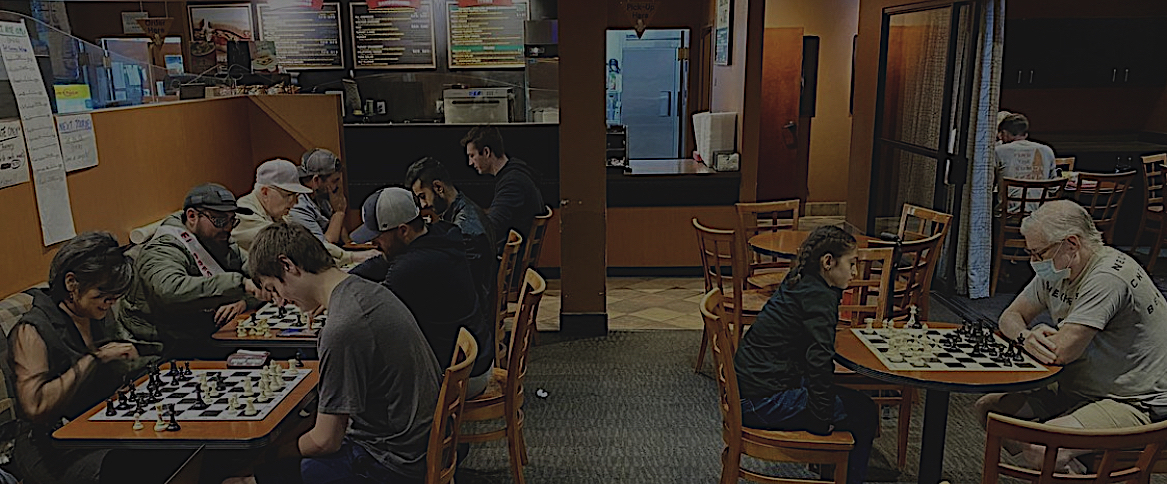
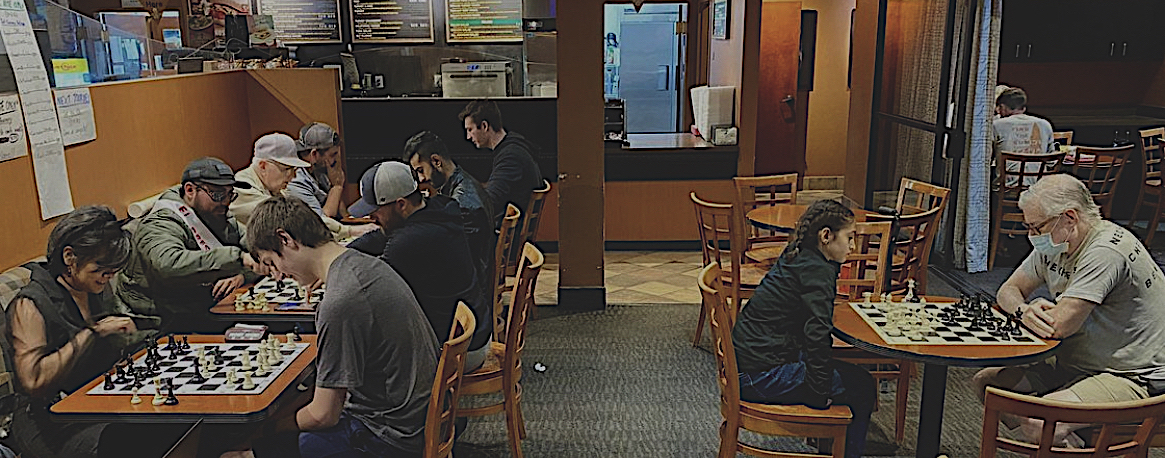
Resizing website images and adding carousel component to homepage.

diff --git a/src/screens/HomeScreen.js b/src/screens/HomeScreen.js
@@ -1,14 +1,32 @@
-import { Col, Container, Image, Row, Button, Card } from "react-bootstrap";
+
+import { Col, Container, Image, Row, Button, Card,Carousel } from "react-bootstrap";
+import Gallery5 from "../LUCA_Images/Gallery5.jpg";
 import Gallery3 from "../LUCA_Images/Gallery3.jpg";
+import Gallery2 from "../LUCA_Images/Gallery2.jpg";
+import Gallery1 from "../LUCA_Images/Gallery1.jpg";
 import halloween from "../LUCA_Images/halloween.jpg"; 
 import singular from "../LUCA_Images/singular.png";
 
-
 export const HomeScreen = () => {
+
   return (
-    <Container className="no-padding">
+    <Container className="no-padding" >
       <Row >
-        <Image src={Gallery3} />
+        <Carousel>
+          <Carousel.Item >
+          <Image className="pic" src={Gallery3} />
+          </Carousel.Item>
+          <Carousel.Item>
+          <Image className="pic" src={Gallery2} />
+          </Carousel.Item>
+          <Carousel.Item>
+          <Image className="pic" src={Gallery1} />
+          </Carousel.Item>
+          <Carousel.Item>
+          <Image className="pic" src={Gallery5} />
+          </Carousel.Item>
+        </Carousel>
+        
       </Row>
       <Row className="white spacer" />
       <Row className="black co">

diff --git a/src/css/style.css b/src/css/style.css
@@ -18,7 +18,7 @@
 
 /** Fonts */
 .fonts-style {
-    color: white;
+    color: rgb(255, 255, 255);
     font-family: 'Source Code Pro', monospace;
    
 }
@@ -53,9 +53,13 @@
     padding-left: 0px !important;
     padding-right: 0px!important;
 }
+.pic{
+    width: 100% !important;
+}
 .spacer{
     height: 2% !important;
 }
+
 /** WebColors */
 .black {
     background-color: rgb(0, 0, 0) !important;

diff --git a/src/components/Navigation.js b/src/components/Navigation.js
@@ -26,6 +26,7 @@ export const Navigation = () => {
                 <Container >
                 <Nav fill className="m-auto ">
                     <Nav.Item><Nav.Link href="/">Home</Nav.Link></Nav.Item>
+                    <Nav.Item><Nav.Link href="/login">Login</Nav.Link></Nav.Item>
                 </Nav>
                 </Container>
             </Navbar.Collapse>
